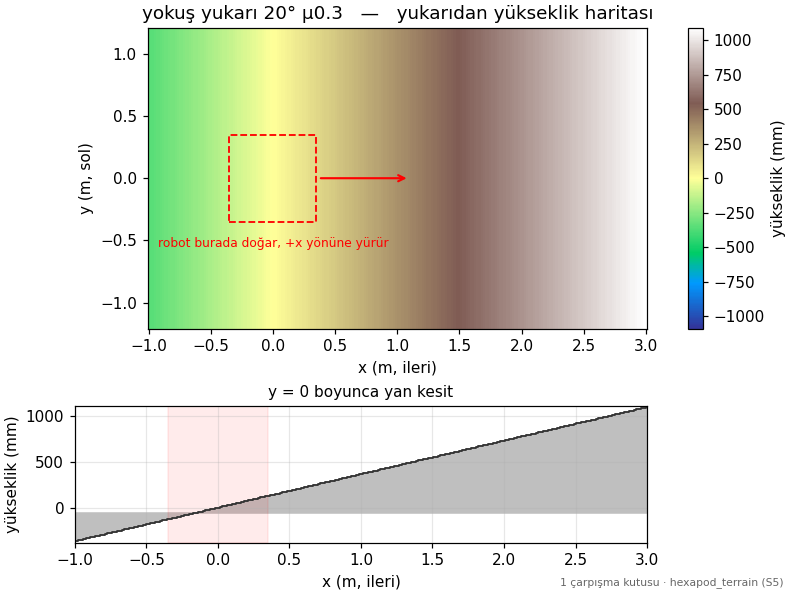
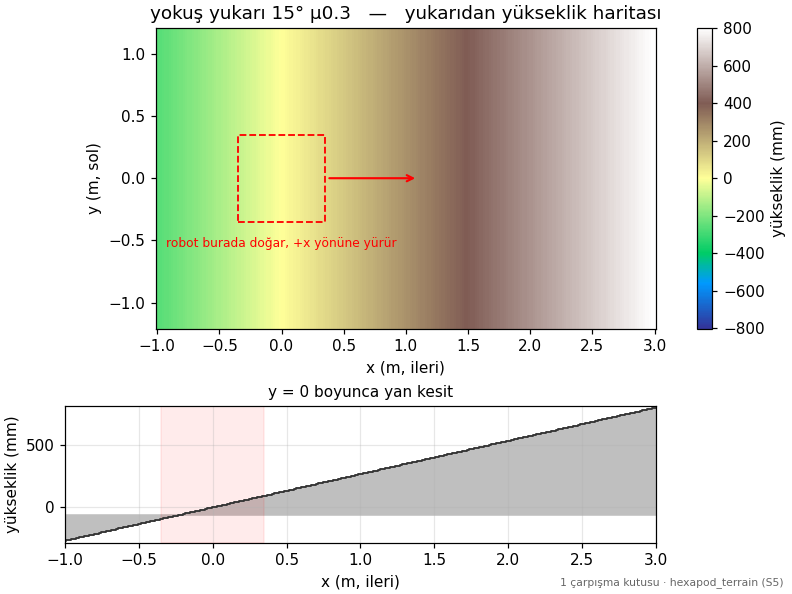
fix(terrain): kaygan zemin seviyeleri ölçümle yeniden dizildi (S5)
S6'nın ilk tablosu ortaya çıkardı: 15° μ0.3'te robot yürümüyor, yokuş aşağı
KAYIYOR (-0.69 m/s, 6.5 m). Tablo bunu 'hız' diye gösteriyordu; oysa orada
hız da metre başına enerji de yürüyüş başarısını değil kaymayı ölçüyor.

Sebebi ölçüldü (tripod:50, 10 s): kayma, sürtünme katsayısı eğimin
tanjantına yaklaşınca başlıyor.
  10° μ0.5 -> +0.084 m/s   (rahat yürüyor)
  10° μ0.3 -> +0.051 m/s   (yürüyor, belirgin yavaşlıyor)
  15° μ0.4 -> +0.017 m/s   (zar zor)
  15° μ0.3 -> -0.600 m/s   (tan15°=0.268, μ payı yok: kayıyor)

Seviyeler bu ölçüme göre dizildi (tahminle değil) ve ölçüm setine
YÜRÜNEBİLİR bir kaygan zemin (10° μ0.3) eklendi: eskisi tek başına
'kimse çıkamıyor' diyordu, denetleyicileri ayırt etmiyordu. Sınır durumu
(15° μ0.3) bilerek listede kaldı, ucu göstersin diye.

evaluation_set'e uyarı notu: bu liste değişirse depodaki eski ölçüm
tabloları yeni ölçümlerle karşılaştırılamaz.

diff --git a/src/hexapod_terrain/hexapod_terrain/sets.py b/src/hexapod_terrain/hexapod_terrain/sets.py
@@ -32,10 +32,16 @@ LEVELS: dict[str, tuple] = {
         lambda seed=0: t.slope(10.0, "y"),
         lambda seed=0: t.slope(20.0, "y"),
     ),
+    # Ölçüldü (2026-09-28, tripod:50, 10 s): kayma, sürtünme katsayısı eğimin
+    # tanjantına yaklaşınca başlıyor. 10° μ0.5 -> +0.084 m/s (rahat),
+    # 10° μ0.3 -> +0.051 (yürüyor, yavaşlıyor), 15° μ0.4 -> +0.017 (zar zor),
+    # 15° μ0.3 -> -0.600 (tan15°=0.268, μ payı yok: robot kayıyor, yürüme yok).
+    # Sonuncusu bilerek listede: "kimsenin çıkamadığı" ucu gösteriyor.
     "kaygan": (
         lambda seed=0: t.slope(-10.0, mu=0.5),
+        lambda seed=0: t.slope(-10.0, mu=0.3),
+        lambda seed=0: t.slope(-15.0, mu=0.4),
         lambda seed=0: t.slope(-15.0, mu=0.3),
-        lambda seed=0: t.slope(-20.0, mu=0.3),
     ),
     "basamak": (
         lambda seed=0: t.step(0.015),
@@ -108,13 +114,18 @@ def difficulty(step_index: int, seed: int = 0) -> list[Terrain]:
 def evaluation_set(seed: int = 0) -> list[Terrain]:
     """S6'nın tablosu ve G7'nin "bitti" ölçümü için sabit zemin listesi.
 
-    Her türden temsili seviyeler; sabit kalmalı ki farklı politikaların
-    ölçümleri karşılaştırılabilsin.
+    Her türden temsili seviyeler. **Bu liste değişirse depodaki eski ölçüm
+    tabloları (docs/olcumler/) yeni ölçümlerle karşılaştırılamaz**; zemin
+    eklemek/çıkarmak gerekirse tabloları da yeniden üretin. Yeni bir zorluk
+    denemek için bunu değiştirmeyin, levels()/level() kullanın.
     """
     return [
         t.flat(),
         t.slope(-10.0), t.slope(-20.0), t.slope(10.0),
         t.slope(10.0, "y"),
+        # İkisi birden: μ0.3'lü 10° yürünebiliyor (denetleyicileri ayırır),
+        # 15°'de kimse tutunamıyor (sınırı gösterir). Bkz. LEVELS["kaygan"].
+        t.slope(-10.0, mu=0.3),
         t.slope(-15.0, mu=0.3),
         t.step(0.030), t.step(0.045), t.step(0.060),
         t.stairs(0.035, 0.25),
